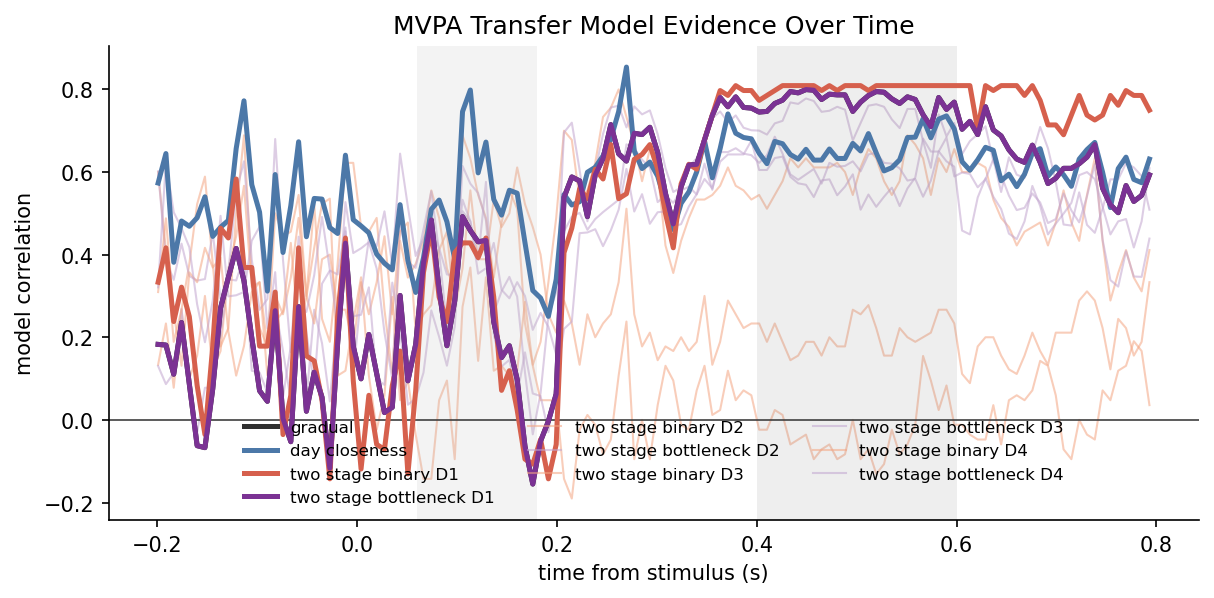
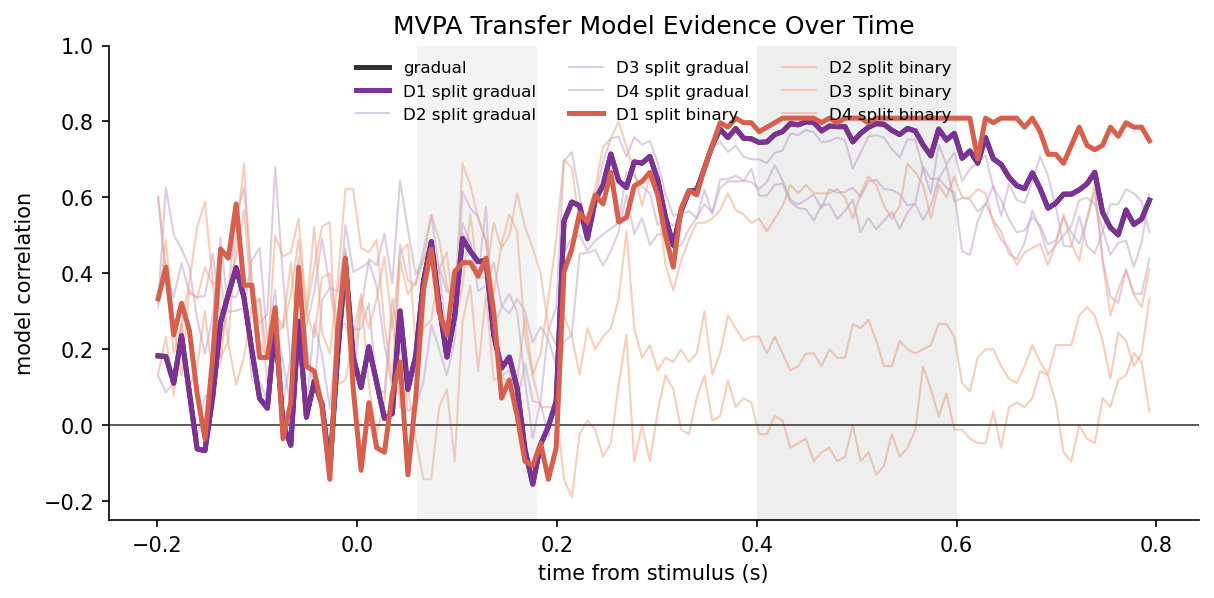
fig rev

diff --git a/code/presentation_figure.py b/code/presentation_figure.py
@@ -106,7 +106,7 @@ def plot_presentation_erp_stim(output_dir, figures_dir):
         fig, axes = plt.subplots(
             1,
             len(days_sorted),
-            figsize=(15, 3.5),
+            figsize=(16, 3.9),
             squeeze=False,
         )
         for i, day in enumerate(days_sorted):
@@ -119,7 +119,22 @@ def plot_presentation_erp_stim(output_dir, figures_dir):
             )
             ax.set_title(f"Day {day}")
             ax.set_xlim(-0.1, 0.8)
+            for child_ax in fig.axes:
+                if child_ax is ax:
+                    continue
+                bbox = child_ax.get_position()
+                parent_bbox = ax.get_position()
+                if bbox.x0 > parent_bbox.x0 and bbox.x1 < parent_bbox.x1:
+                    child_ax.set_position(
+                        [
+                            parent_bbox.x1 - 0.055,
+                            parent_bbox.y1 - 0.18,
+                            0.035,
+                            0.12,
+                        ]
+                    )
         fig.suptitle("Stimulus-Locked ERPs", fontsize=11)
+        fig.subplots_adjust(left=0.055, right=0.99, bottom=0.22, wspace=0.42)
         fig.savefig(fig_path, dpi=150, bbox_inches="tight")
         plt.close(fig)
     return fig_path
@@ -821,16 +836,26 @@ def plot_presentation_mvpa_model_timecourse(output_dir, figures_dir):
     fig, ax = plt.subplots(figsize=(8.2, 4.1))
     labels = [
         "gradual",
-        "day closeness",
-        "two_stage_binary_D1",
         "two_stage_bottleneck_D1",
-        "two_stage_binary_D2",
         "two_stage_bottleneck_D2",
-        "two_stage_binary_D3",
         "two_stage_bottleneck_D3",
-        "two_stage_binary_D4",
         "two_stage_bottleneck_D4",
+        "two_stage_binary_D1",
+        "two_stage_binary_D2",
+        "two_stage_binary_D3",
+        "two_stage_binary_D4",
     ]
+    legend_labels = {
+        "gradual": "gradual",
+        "two_stage_bottleneck_D1": "D1 split gradual",
+        "two_stage_bottleneck_D2": "D2 split gradual",
+        "two_stage_bottleneck_D3": "D3 split gradual",
+        "two_stage_bottleneck_D4": "D4 split gradual",
+        "two_stage_binary_D1": "D1 split binary",
+        "two_stage_binary_D2": "D2 split binary",
+        "two_stage_binary_D3": "D3 split binary",
+        "two_stage_binary_D4": "D4 split binary",
+    }
     for label in labels:
         g = d[d["model_label"] == label].sort_values("time_sec")
         if g.empty:
@@ -839,8 +864,6 @@ def plot_presentation_mvpa_model_timecourse(output_dir, figures_dir):
         linewidth = 1.0
         alpha = 0.55
         zorder = 1
-        if label == "day closeness":
-            color = "#4c78a8"
         if "binary" in label:
             color = "#f4a582"
         if "bottleneck" in label:
@@ -855,7 +878,7 @@ def plot_presentation_mvpa_model_timecourse(output_dir, figures_dir):
             linewidth = 2.4
             alpha = 1.0
             zorder = 3
-        if label in ["gradual", "day closeness"]:
+        if label == "gradual":
             linewidth = 2.4
             alpha = 1.0
             zorder = 3
@@ -865,7 +888,7 @@ def plot_presentation_mvpa_model_timecourse(output_dir, figures_dir):
             color=color,
             linewidth=linewidth,
             alpha=alpha,
-            label=label.replace("_", " "),
+            label=legend_labels[label],
             zorder=zorder,
         )
     ax.axhline(0, color="0.25", linewidth=0.8)
@@ -874,7 +897,8 @@ def plot_presentation_mvpa_model_timecourse(output_dir, figures_dir):
     ax.set_xlabel("time from stimulus (s)")
     ax.set_ylabel("model correlation")
     ax.set_title("MVPA Transfer Model Evidence Over Time")
-    ax.legend(frameon=False, fontsize=8, ncol=3, loc="lower center")
+    ax.set_ylim(-0.25, 1.0)
+    ax.legend(frameon=False, fontsize=8, ncol=3, loc="upper center")
     setup_axis(ax)
     fig.tight_layout()
     fig_path = figures_dir / "presentation_mvpa_model_timecourse.png"
